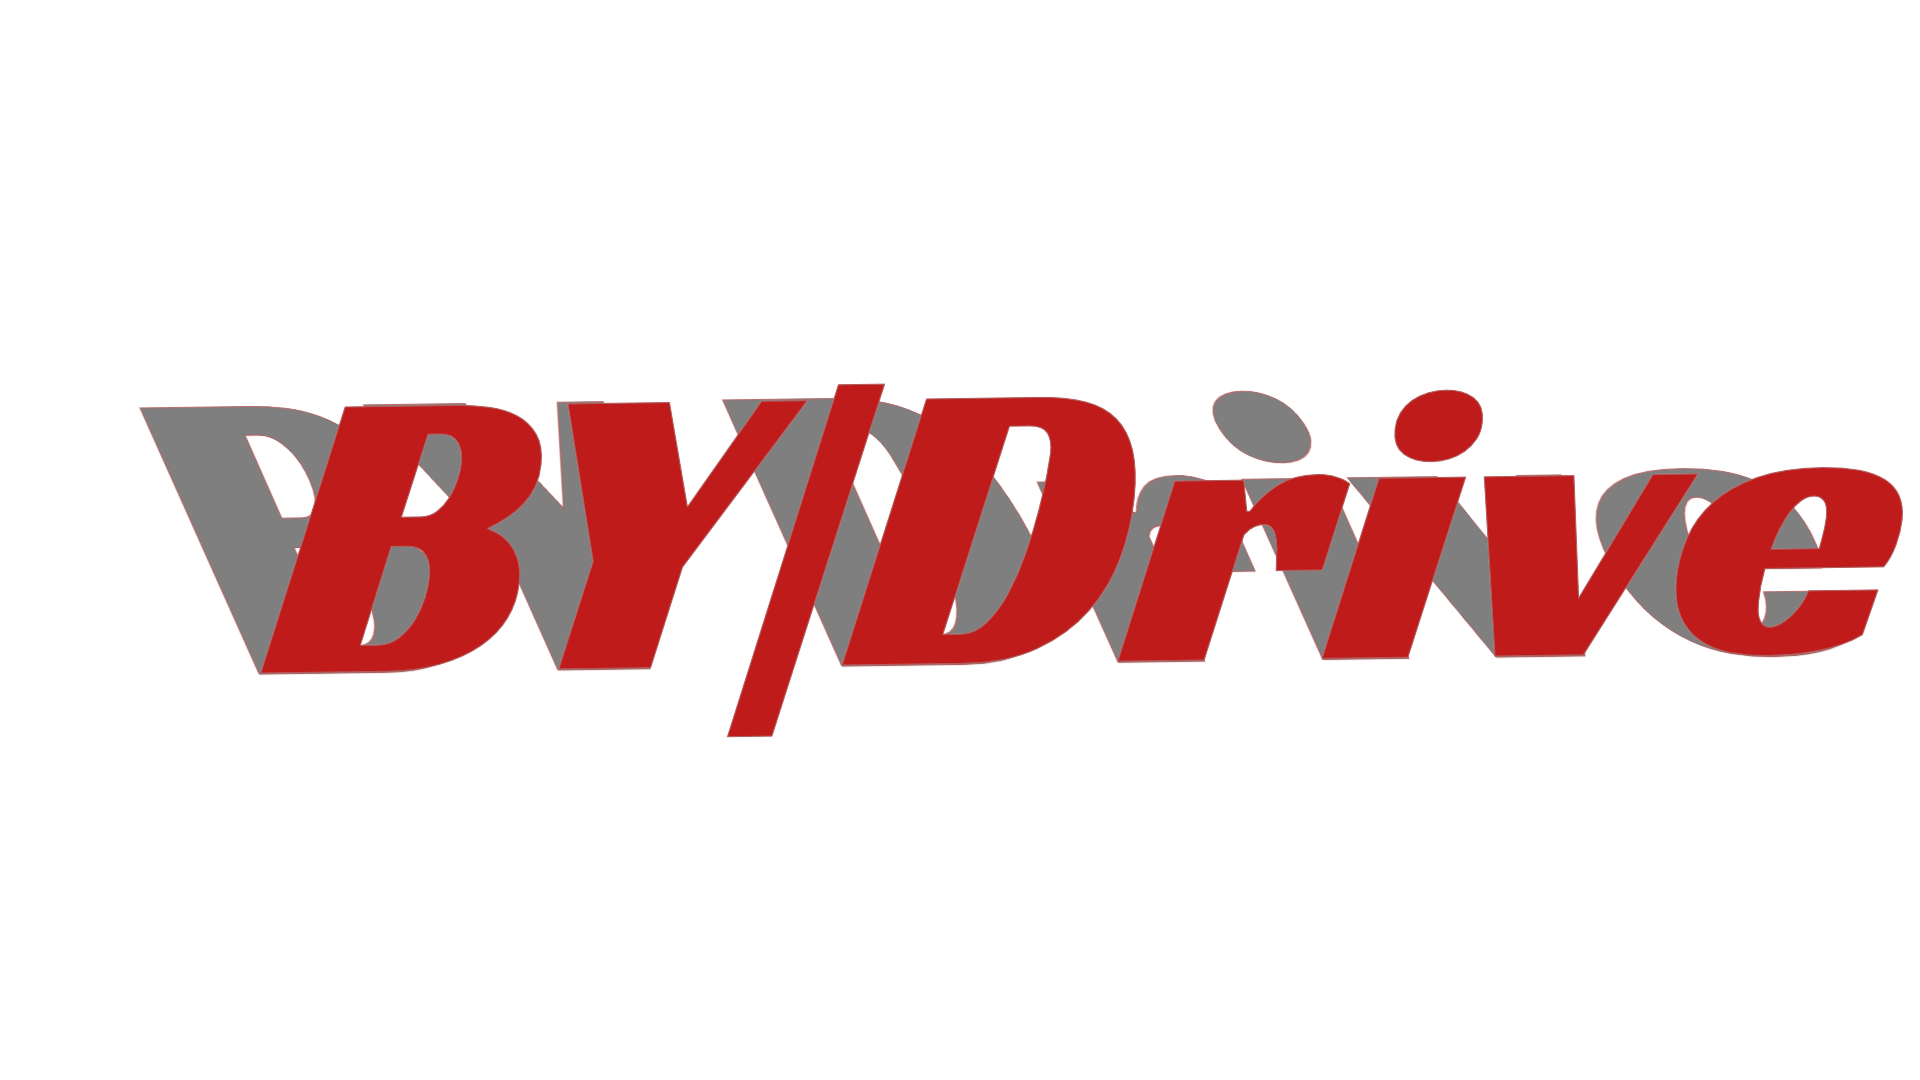
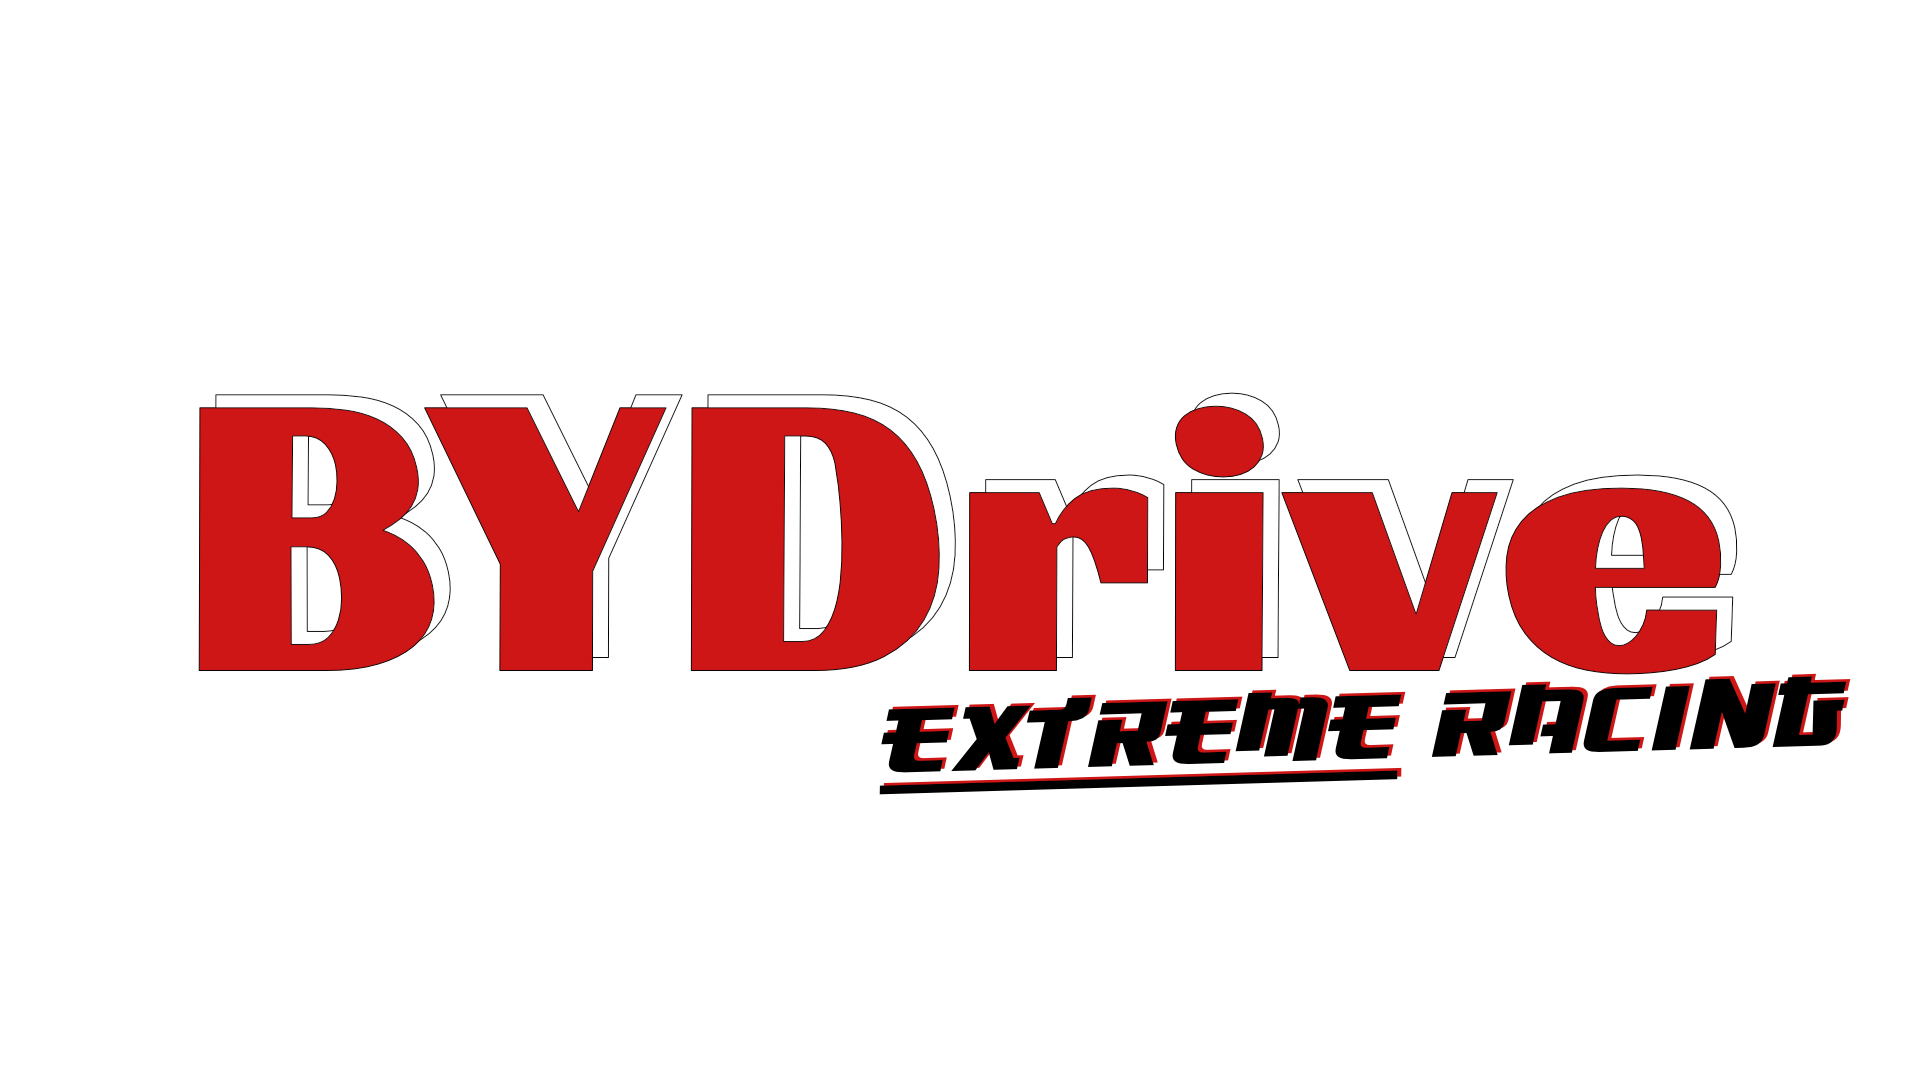
Branding Update
- Change button font to something more fitting
- Update title image, show on pause screen too
- Added missing developer credits

Changed region(s): [[0.0625, 0.3361, 1.0, 0.7333]]

diff --git a/code/MainMenu/CreditsPage.razor.scss b/code/MainMenu/CreditsPage.razor.scss
@@ -4,12 +4,14 @@ creditspage {
     .main {
         color: #fff;
         align-items: center;
-        overflow-y: scroll;
+        overflow: scroll;
+        pointer-events: all;
 
         .group_name {
             width: 50%;
+            height: 300px;
             text-align: center;
-            margin: 2%;
+            margin: 20px;
             border-bottom: 1px solid white;
             font-size: 58px;
             font-weight: bold;
@@ -22,22 +24,22 @@ creditspage {
             justify-content: space-around;
 
             &.developer {
-                margin: 1%;
-                height: 15vh;
+                margin: 20px;
+                height: 400px;
             }
 
             &.attribution {
-                margin: 0.2% 1% 0.2% 1%;
-                height: 8vh;
+                margin: 10px 20px 20px 10px;
+                height: 200px;
             }
 
             .avatar {
-                margin: 0.5%;
+                margin: 5px;
                 aspect-ratio: 1;
             }
 
             .person {
-                flex-grow: 1;
+                width: 42%;
                 align-items: stretch;
                 justify-content: center;
 
@@ -52,7 +54,7 @@ creditspage {
             }
 
             .credit {
-                flex-grow: 1;
+                width: 42%;
                 align-items: center;
                 justify-content: center;
                 text-align: center;

diff --git a/code/UI/RaceMenu.razor.scss b/code/UI/RaceMenu.razor.scss
@@ -1,44 +1,37 @@
 @import "colors.scss";
+@import "elements.scss";
 
 RaceMenu {
+	z-index: 100;
 	display: none;
-	flex-direction: column;
 	width: 100%;
 	height: 100%;
+	flex-direction: column;
 	justify-content: center;
 	align-items: center;
 	gap: 10px;
-	background-color: #88888855;
-
-	.label {
-		font-size: 32px;
-		font-weight: bold;
-		font-family: Poppins;
-		color: #ffffffff;
-		text-align: center;
-	}
+	background-color: $background_clear_dark;
+	backdrop-filter: blur(10px);
 
 	&.active {
 		display: flex;
 	}
 
-	.header {
-		width: 20%;
-		height: 10%;
-		font-size: 64px;
-		color: #ffccccff;
+	.title {
+		z-index: 105;
+		position: absolute;
+		top: 0;
+		width: 100%;
+		bottom: 55%;
+		background-position: center;
+		background-size: contain;
+		background-repeat: no-repeat;
+		background-image: url("ui/title.png");
 	}
 
 	.button {
-		width: 20%;
-		height: 8%;
-		background-color: #5a5a5add;
+		width: 20vw;
+		height: 9vh;
 		border-radius: 5px;
-		pointer-events: all;
-		align-items: center;
-
-		&:hover {
-			border: 5px solid #eeeeee99;
-		}
 	}
 }

diff --git a/code/MainMenu/Freeplay/TimeTrialPage.razor.scss b/code/MainMenu/Freeplay/TimeTrialPage.razor.scss
@@ -52,7 +52,7 @@ TimeTrialPage {
     .times {
         padding: 2%;
         width: 70%;
-        gap: 5%;
+        gap: 15px;
 
         .entry {
             height: 8vh;
@@ -60,6 +60,7 @@ TimeTrialPage {
             background-color: $background_light;
             align-items: center;
             pointer-events: all;
+            box-shadow: 5px -5px 1px $highlight_dark;
 
             &:hover {
                 background-color: #999999;
@@ -116,7 +117,7 @@ TimeTrialPage {
     .tracklist {
         width: 75%;
         padding: 2%;
-        gap: 5%;
+        gap: 50px;
         flex-direction: row;
 
         .track {
@@ -127,6 +128,7 @@ TimeTrialPage {
             flex-direction: column;
             color: #fff;
             font-family: poppins;
+            box-shadow: 5px -5px 1px $highlight_dark;
 
             &:hover {
                 background-color: #7c7c7c;

diff --git a/code/MainMenu/MainPage.razor.scss b/code/MainMenu/MainPage.razor.scss
@@ -8,13 +8,12 @@
     pointer-events: all;
 
     .title {
+        z-index: 10;
         position: absolute;
         top: 0;
-        left: 10%;
+        left: 8%;
         right: 0;
-        bottom: 65%;
-        justify-content: center;
-        align-items: center;
+        bottom: 55%;
         background-size: contain;
         background-repeat: no-repeat;
         background-image: url("ui/title.png");
@@ -22,14 +21,15 @@
 
     .options {
         position: absolute;
-        top: 20%;
+        top: 35%;
         left: 10%;
         height: 80%;
         width: 30%;
 
         .group {
-            gap: 10px;
+            gap: 10vh;
             align-items: center;
+            margin-bottom: 1vh;
         }
 
         .header {

diff --git a/code/elements.scss b/code/elements.scss
@@ -6,11 +6,11 @@
     justify-content: center;
     color: #fff;
     background-color: $button_primary;
-    font-family: Roboto;
-    font-size: 32px;
-    font-weight: bold;
+    font-family:'Agency FB';
+    font-size: 38px;
     text-transform: uppercase;
     pointer-events: all;
+    box-shadow: 5px -5px 1px $highlight_neutral;
 
     &:hover {
         cursor: pointer;
@@ -38,6 +38,7 @@
         cursor: not-allowed;
         pointer-events: none;
         background-color: #555;
+        box-shadow: 5px -5px 1px $highlight_dark;
     }
 }
 

diff --git a/code/UI/RaceResults.razor.scss b/code/UI/RaceResults.razor.scss
@@ -19,19 +19,18 @@ RaceResults {
 	.title {
 		font-size: 64px;
 		color: #fff;
-		margin: 25px;
+		margin: 20px;
+		border-bottom: 1px solid white;
 	}
 
 	.header {
 		font-size: 32px;
 		color: #fff;
-		margin: 20px;
 	}
 
 	.list {
 		height: 70%;
 		width: 50%;
-		margin-top: 30px;
 		flex-direction: column;
 		align-items: center;
 		padding: 30px;

diff --git a/code/colors.scss b/code/colors.scss
@@ -27,3 +27,7 @@ $button_secondary_hover: #d98686;
 $button_secondary_disabled: #aaa2aa;
 
 $branding_red: #e92020;
+
+$highlight_light: #d8d1d16d;
+$highlight_neutral: #aa00006d;
+$highlight_dark: #202020bd;

diff --git a/code/UI/RaceIntro.razor.scss b/code/UI/RaceIntro.razor.scss
@@ -9,7 +9,7 @@ RaceIntro {
 	align-items: center;
 	font-weight: bold;
 	border-radius: 20px;
-	font-family: Poppins;
+	font-family: 'Agency FB';
 	color: #fff;
 	flex-direction: column;
 

diff --git a/code/MainMenu/CreditsPage.razor.cs b/code/MainMenu/CreditsPage.razor.cs
@@ -5,10 +5,12 @@ public partial class CreditsPage
 {
 	private static readonly List<CreditsEntry> developmentEntries = new()
 	{
-		new(76561198835895479, "qualityk", "kilianq", "Main Developer")
+		new(76561198835895479, "qualityk", "kilianq", "Main Developer"),
+		new(76561198282489899, "Kanalratte", "kanalratte", "Models, Textures"),
+		new(76561198162417562, "SlimesMcDingle", "slimesmcdingle", "Models, Textures"),
 	};
 
-	private static List<CreditsEntry> attributionEntries = new()
+	private static readonly List<CreditsEntry> attributionEntries = new()
 	{ 
 		new(0, "SkyernAklea", "", "Car Engine Sounds"),
 		new(0, "inchadney", "", "City Soundscape")

diff --git a/code/UI/RaceHUD/LapCompletion.razor.cs b/code/UI/RaceHUD/LapCompletion.razor.cs
@@ -49,5 +49,5 @@ public partial class LapCompletion
 	/// <summary>
 	/// the hash determines if the system should be rebuilt. If it changes, it will be rebuilt
 	/// </summary>
-	protected override int BuildHash() => HashCode.Combine( GetCurrentCompletion(), DebugCheckpoints);
+	protected override int BuildHash() => HashCode.Combine( GetCurrentCompletion(), highestLap, DebugCheckpoints);
 }
